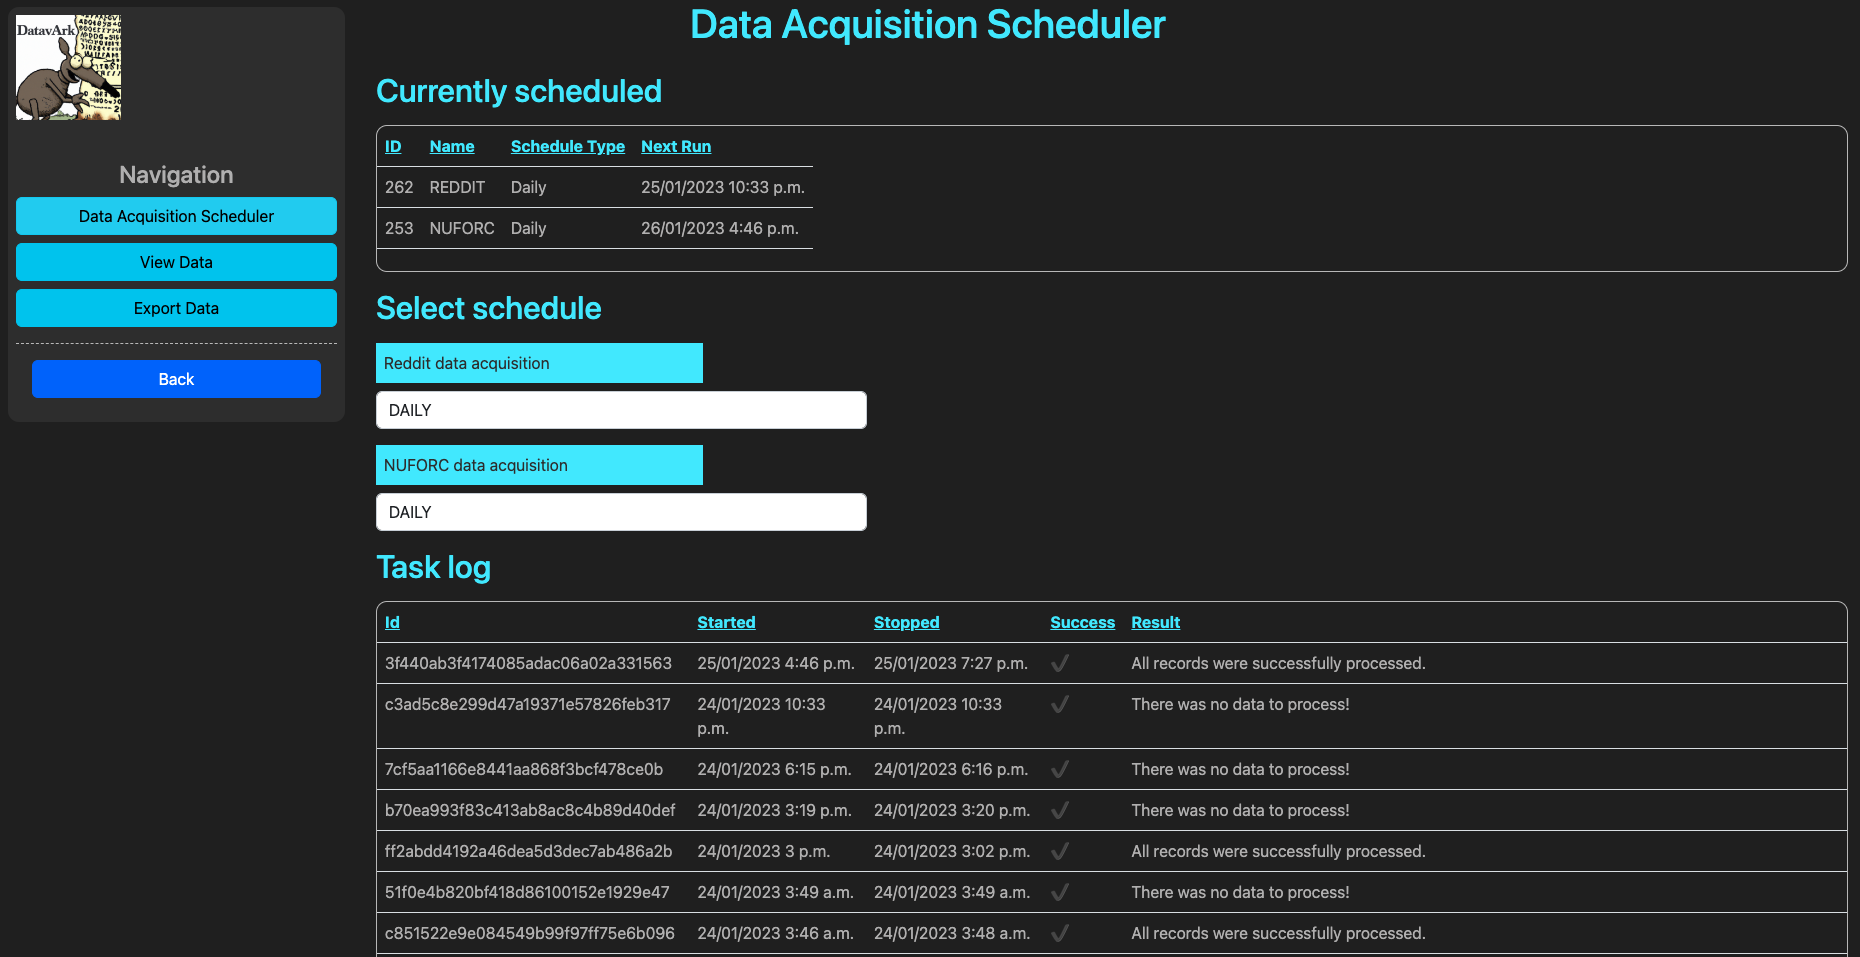
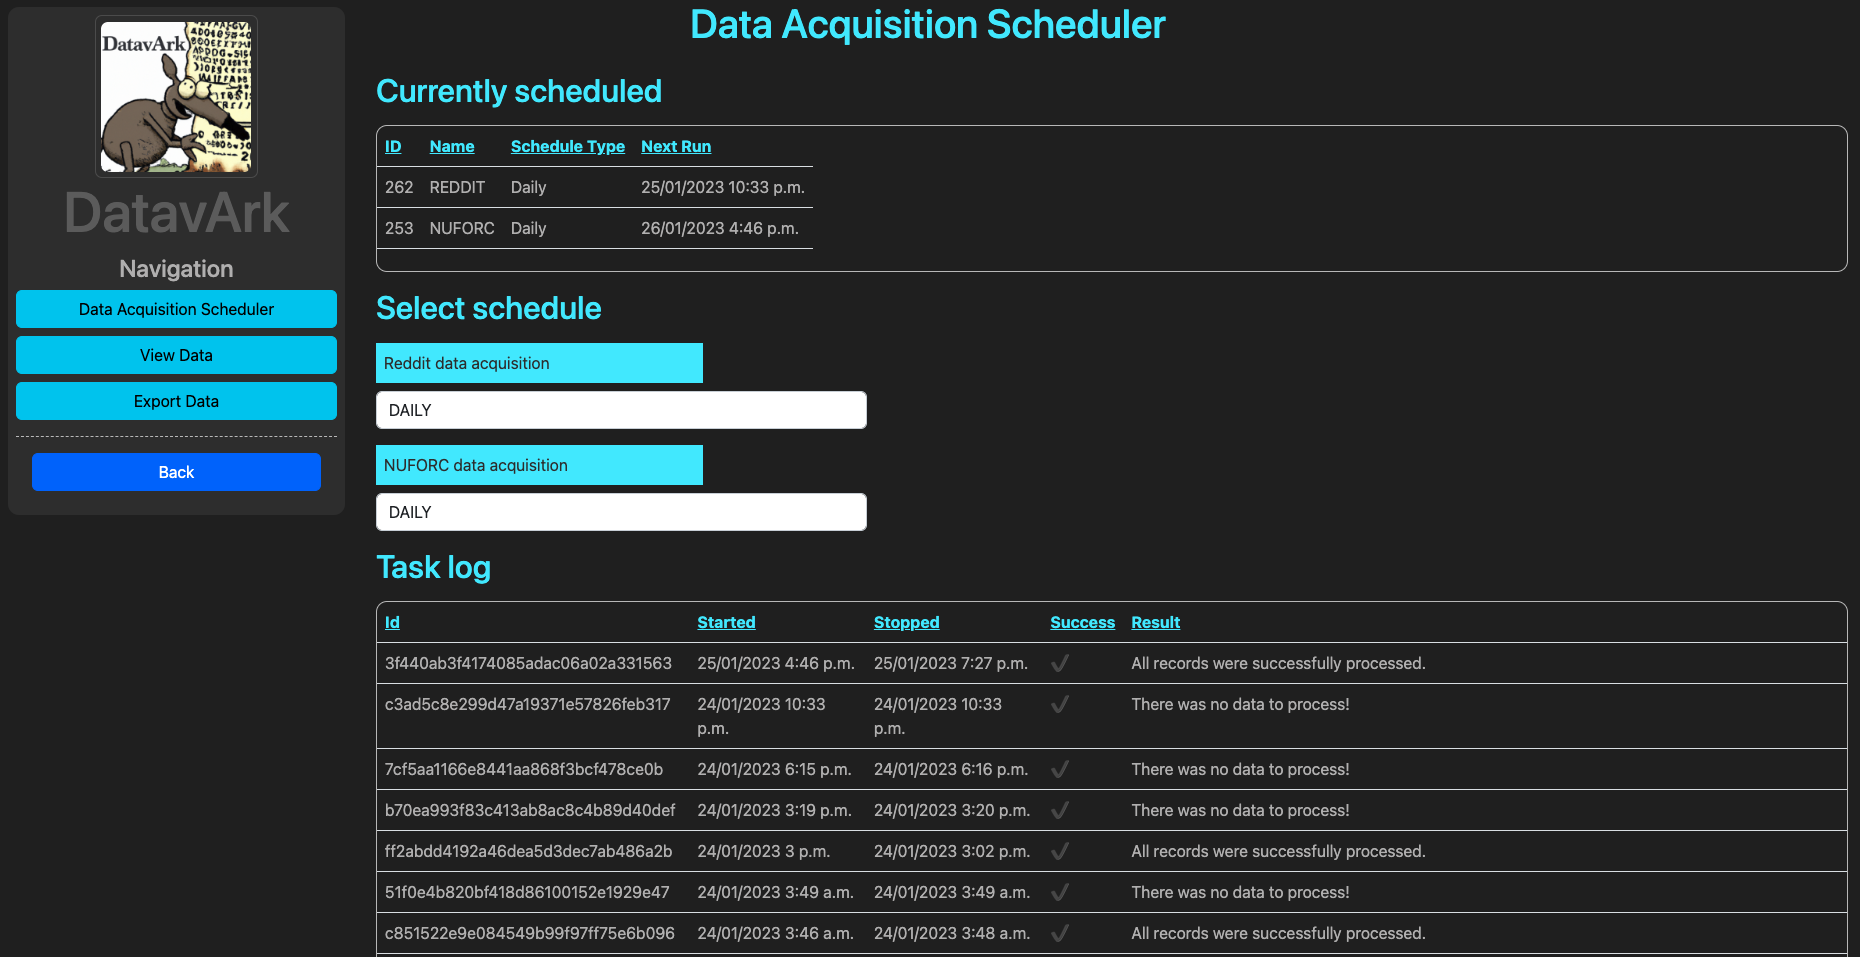
Tweak CSS presentation

Changed region(s): [[0.0, 0.0, 0.1871, 0.5152]]

diff --git a/app/Datavark/ie/static/css/base.css b/app/Datavark/ie/static/css/base.css
@@ -24,8 +24,15 @@ h3,
 h4,
 h5,
 h6 {
-    color: rgb(81, 235, 255);
+    color: silver;
     text-transform: capitalize !important;
+    text-underline-offset: 0.3em;
+    text-decoration-line: underline ;
+    text-decoration-style: dotted;
+    text-decoration-color: rgb(81, 235, 255);
+    text-decoration-thickness: 0.11em;
+    text-decoration-skip-ink: none;
+    margin: 0.3em 0 0.7em 0;
 }
 
 .btn {
@@ -42,7 +49,7 @@ div#sidebar {
     position: fixed;
     display: block;
     float: left !important;
-    width: 18% !important;
+    width: 15% !important;
     margin: 0.5em 1em 0 0;
     padding: 0.5em 0.5em 0.5em 0.5em;
     background-color: #333333;
@@ -50,6 +57,7 @@ div#sidebar {
     border-radius: 11px;
     text-transform: capitalize !important;
     z-index: 11;
+    border: 1px solid silver;
 }
 
 div#sidebar h1#navTitle {
@@ -63,7 +71,11 @@ div#sidebar h1#navTitle {
 div#content {
     display: block;
     float: right !important;
-    width: 80% !important;
+    width: 83% !important;
+    border: 1px solid silver;
+    border-radius: 11px;
+    padding: 1vw;
+    margin: 0.5em 0 0 0.5em;
 }
 
 div#content a {
@@ -121,7 +133,7 @@ div#siteIcon {
 
 div#iconContainer {
     display: inline-block;
-    border: 1px solid #555555;
+    border: 1px solid silver;
     padding: 0.3vw;
     border-radius: 7px;
 }
@@ -134,7 +146,14 @@ div#siteIcon img {
 
 div#siteTitle {
     position: relative;
-    color: #666666 !important;
+    color: silver !important;
+    text-underline-offset: 0.3em;
+    text-decoration-line: underline ;
+    text-decoration-style: wavy;
+    text-decoration-color: rgb(81, 235, 255);
+    text-decoration-thickness: 0.3em;
+    text-decoration-skip-ink: all;
+    margin: 0 0 1em 0;
 }
 
 div#siteTitle h1 {

diff --git a/app/Datavark/templates/base.html b/app/Datavark/templates/base.html
@@ -30,7 +30,7 @@
         <nav>
             <h1 id="navTitle">Navigation</h1>
             <ul>
-                <li><a class="btn btn-info" href="{% url 'ie:index' %}" role="button">Data Acquisition Scheduler</a>
+                <li><a class="btn btn-info" href="{% url 'ie:index' %}" role="button">Acquisition Scheduler</a>
                 </li>
                 <li><a class="btn btn-info" href="{% url 'dataview:reports-view' %}" role="button">View Data</a></li>
                 <li><a class="btn btn-info" href="{% url 'dataview:data-export-view' %}" role="button">Export Data</a>
@@ -42,8 +42,8 @@
         </nav>
         {% endblock %}
     </div>
-    <div id="pageTitle">{% block page_title %}{%endblock%}</div>
     <div id="content">
+        <div id="pageTitle">{% block page_title %}{%endblock%}</div>
         {% block content %}{% endblock %}
     </div>
     <div id="footer">

diff --git a/app/Datavark/ie/static/css/ie_style.css b/app/Datavark/ie/static/css/ie_style.css
@@ -15,8 +15,3 @@
 .change-schedule {
     display: block;
 }
-
-h2 {
-    margin: 0.5em 0;
-    text-transform: none!important;
-}
